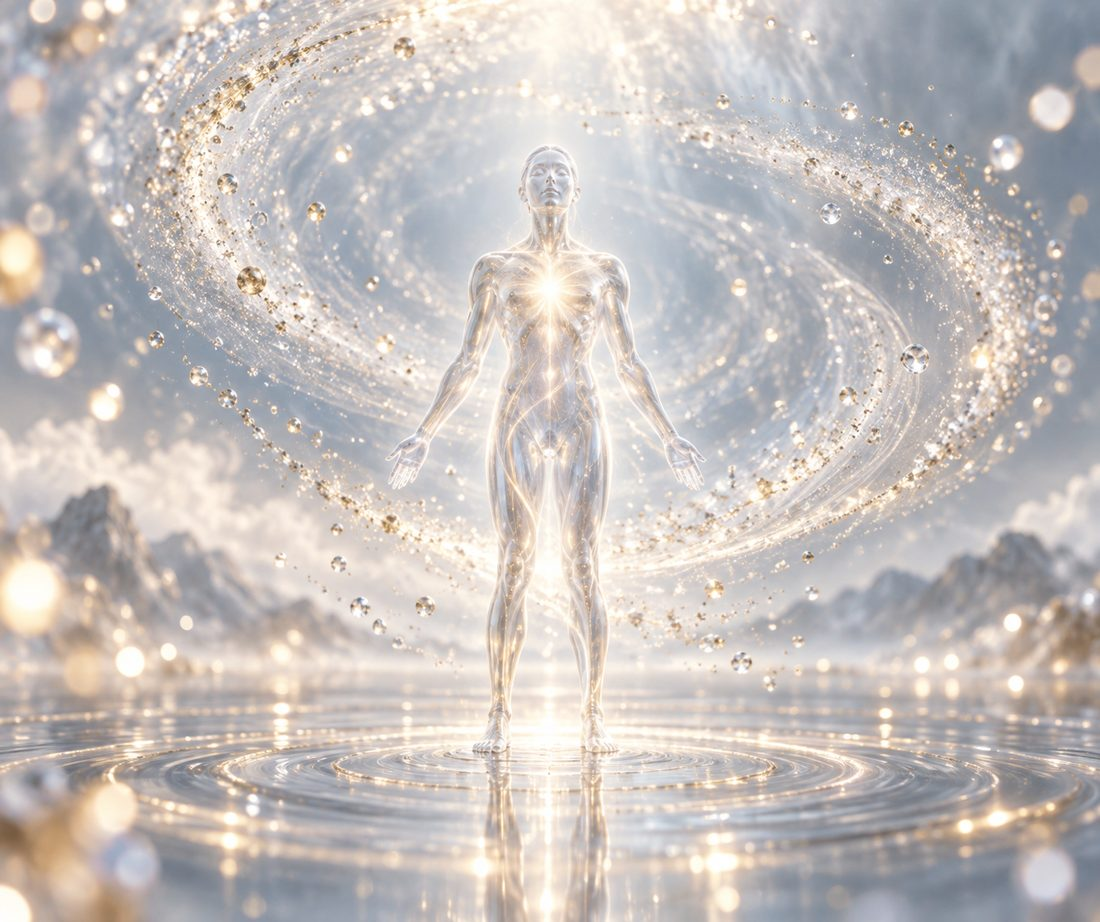
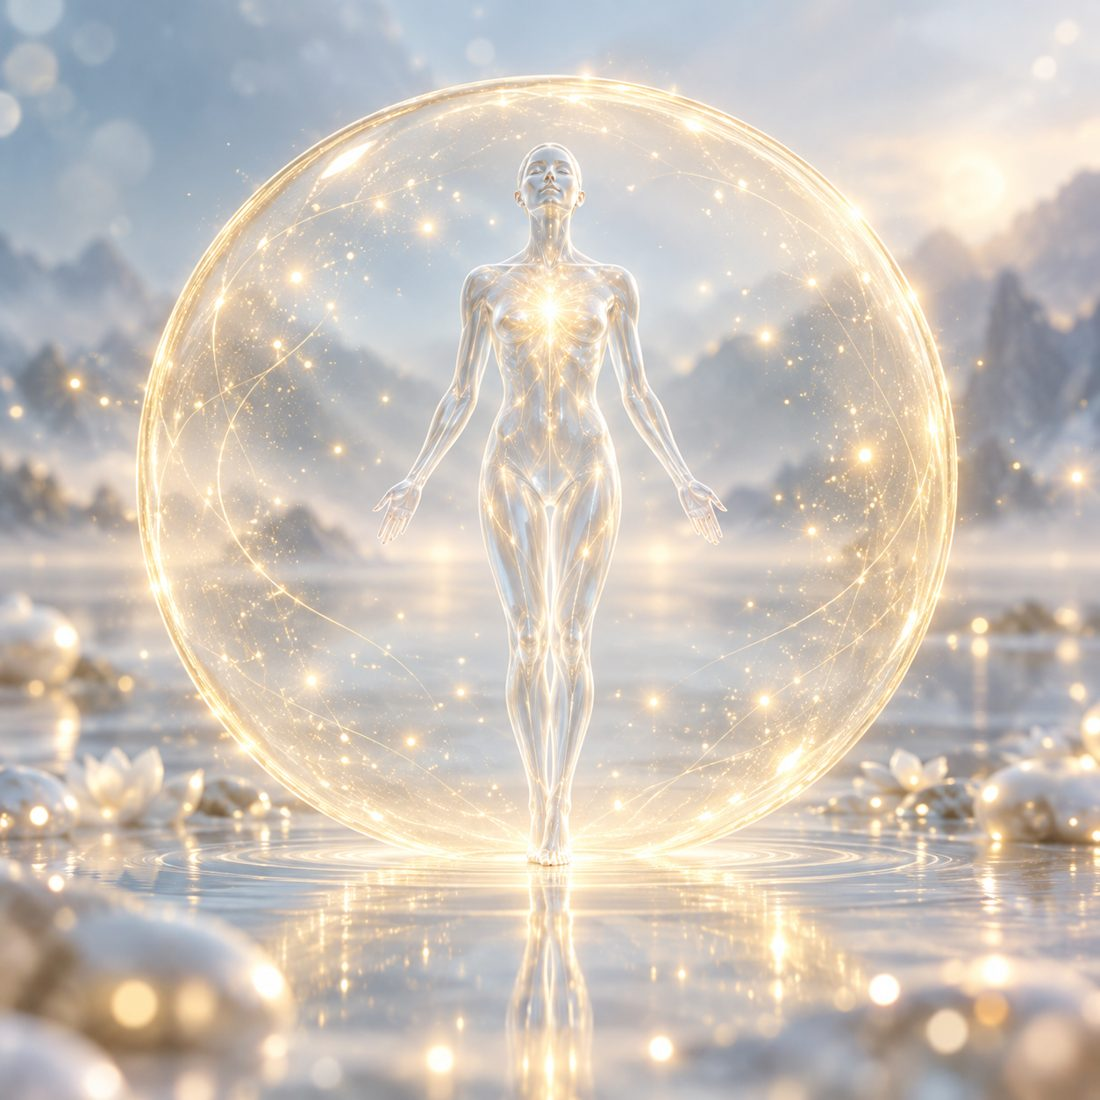
avtomagicheski: заголовок первого экрана виден в Safari на iPhone

diff --git a/avtomagicheski/index.html b/avtomagicheski/index.html
@@ -41,7 +41,9 @@ h1,h2,h3,.pill,.btn-iri,.btn-buy,.sum-title,.caps{font-family:Unbounded,Montserr
 .hero:before{content:"";position:absolute;inset:0;z-index:1;background:linear-gradient(90deg,rgba(244,246,249,.55),rgba(244,246,249,0) 55%),linear-gradient(180deg,rgba(244,246,249,0) 70%,rgba(244,246,249,1) 100%)}
 #dust{position:absolute;inset:0;z-index:2;pointer-events:none}
 .hero-in{position:relative;z-index:3;width:100%;display:flex;flex-direction:column;justify-content:space-between;padding:38px 20px 70px}
-.hero h1{font-size:clamp(34px,8.2vw,118px);line-height:.98;font-weight:300;background:linear-gradient(100deg,#2f3645 0%,#4a5570 45%,#9a7a3c 100%);-webkit-background-clip:text;background-clip:text;color:transparent;filter:drop-shadow(0 2px 24px rgba(255,255,255,.7))}
+.hero h1{font-size:clamp(34px,8.2vw,118px);line-height:.98;font-weight:300;color:#2f3645;text-shadow:0 2px 24px rgba(255,255,255,.8)}
+.hero h1 span:nth-child(2){color:#3d4863}
+.hero h1 span:nth-child(3){color:#8a6a2e}
 .hero h1 span{display:block;animation:rise 1.2s cubic-bezier(.2,.7,.2,1) both}
 .hero h1 span:nth-child(2){padding-left:12%;animation-delay:.15s}
 .hero h1 span:nth-child(3){text-align:right;animation-delay:.3s;font-size:.42em;letter-spacing:.3em;margin-top:.5em}
